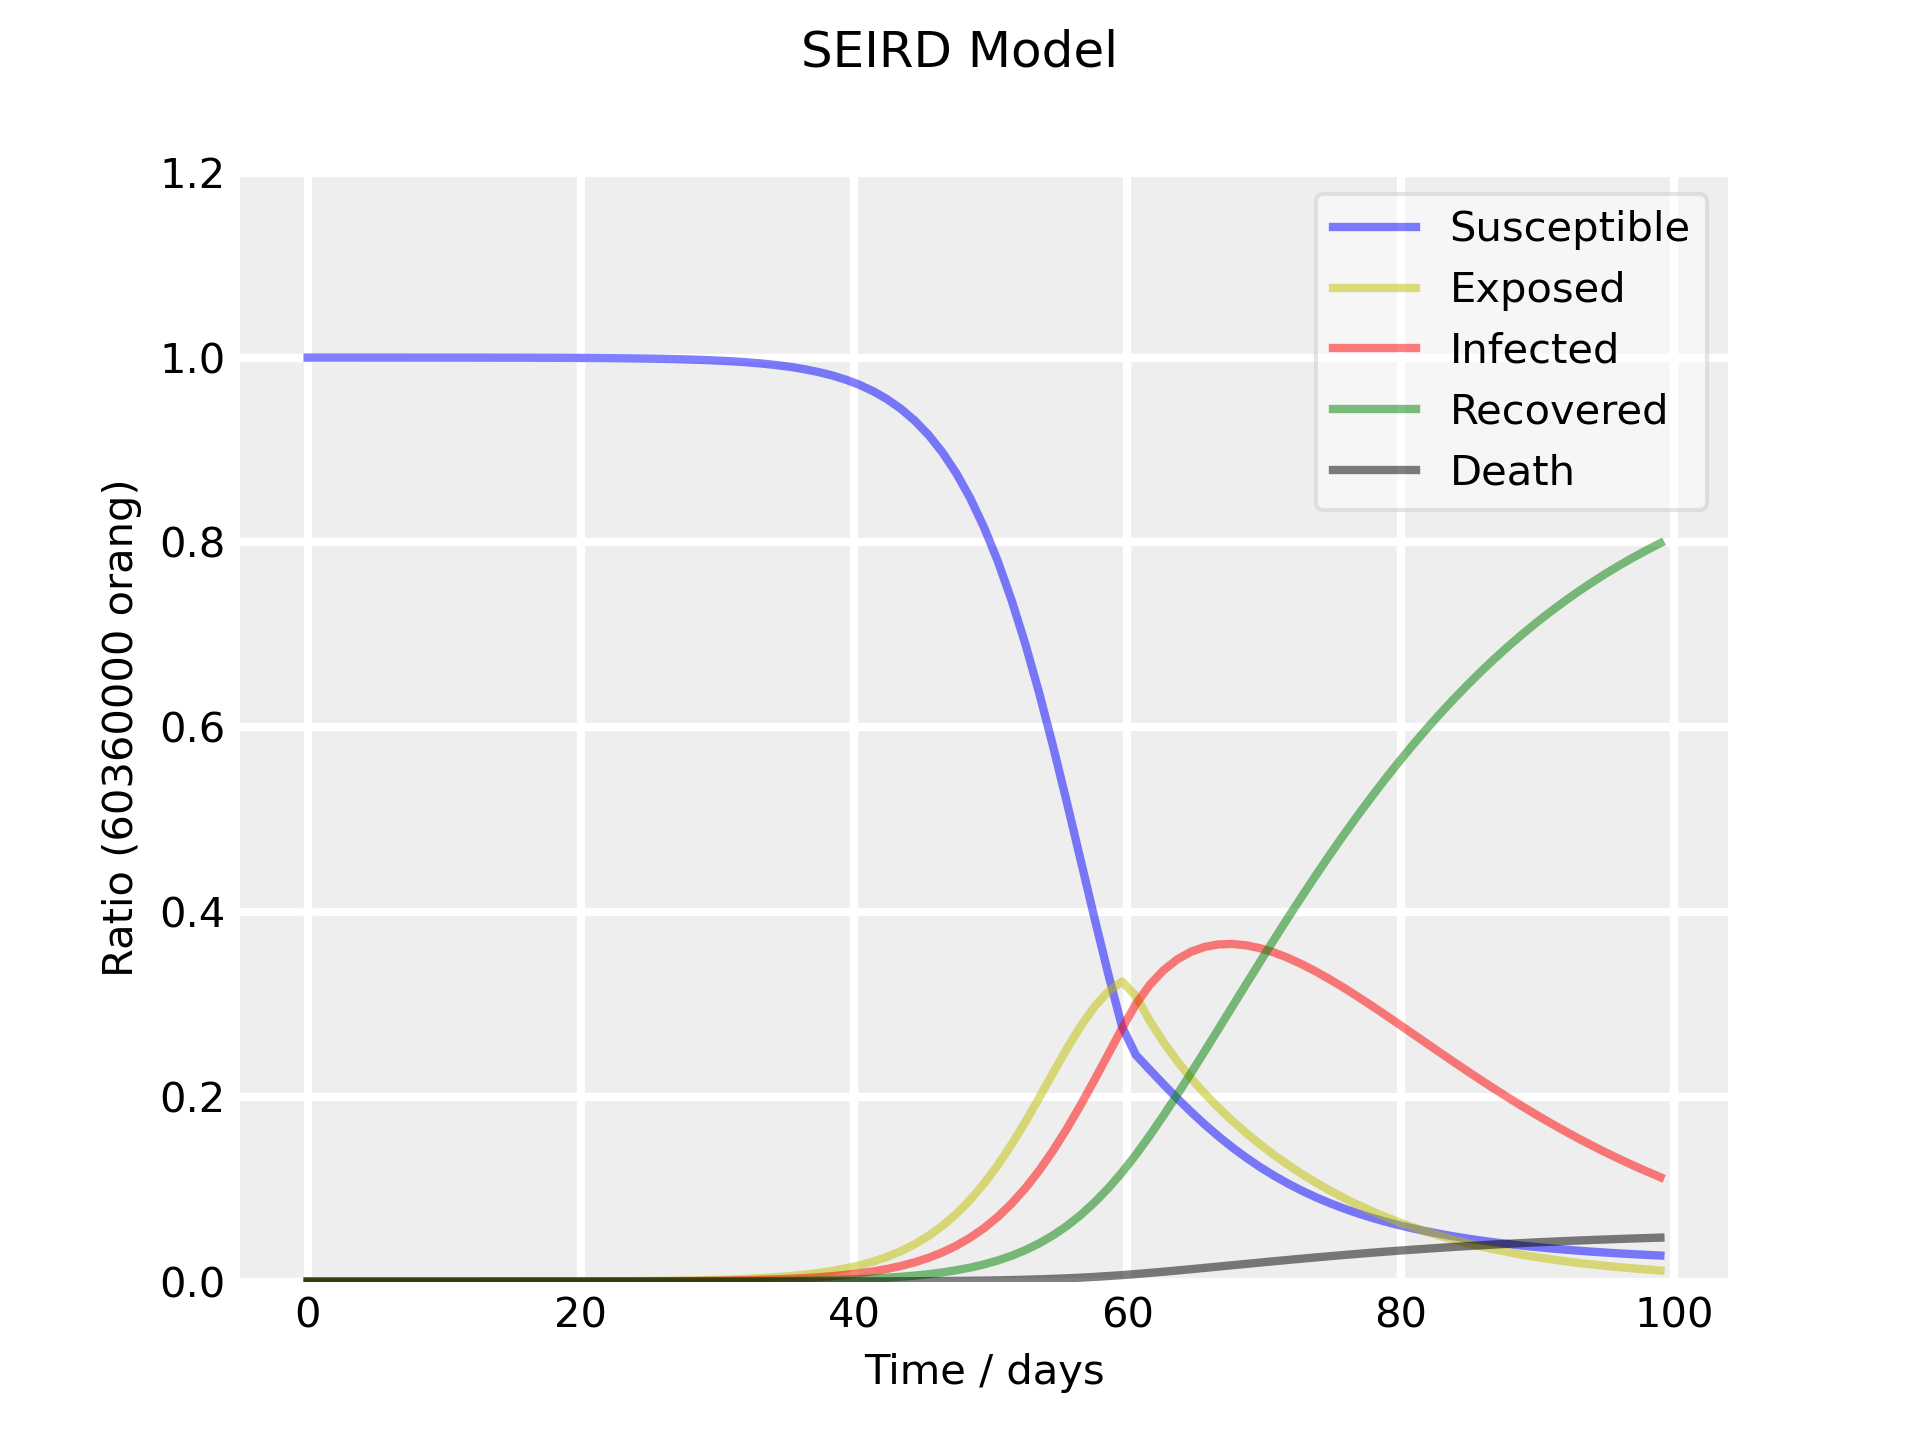
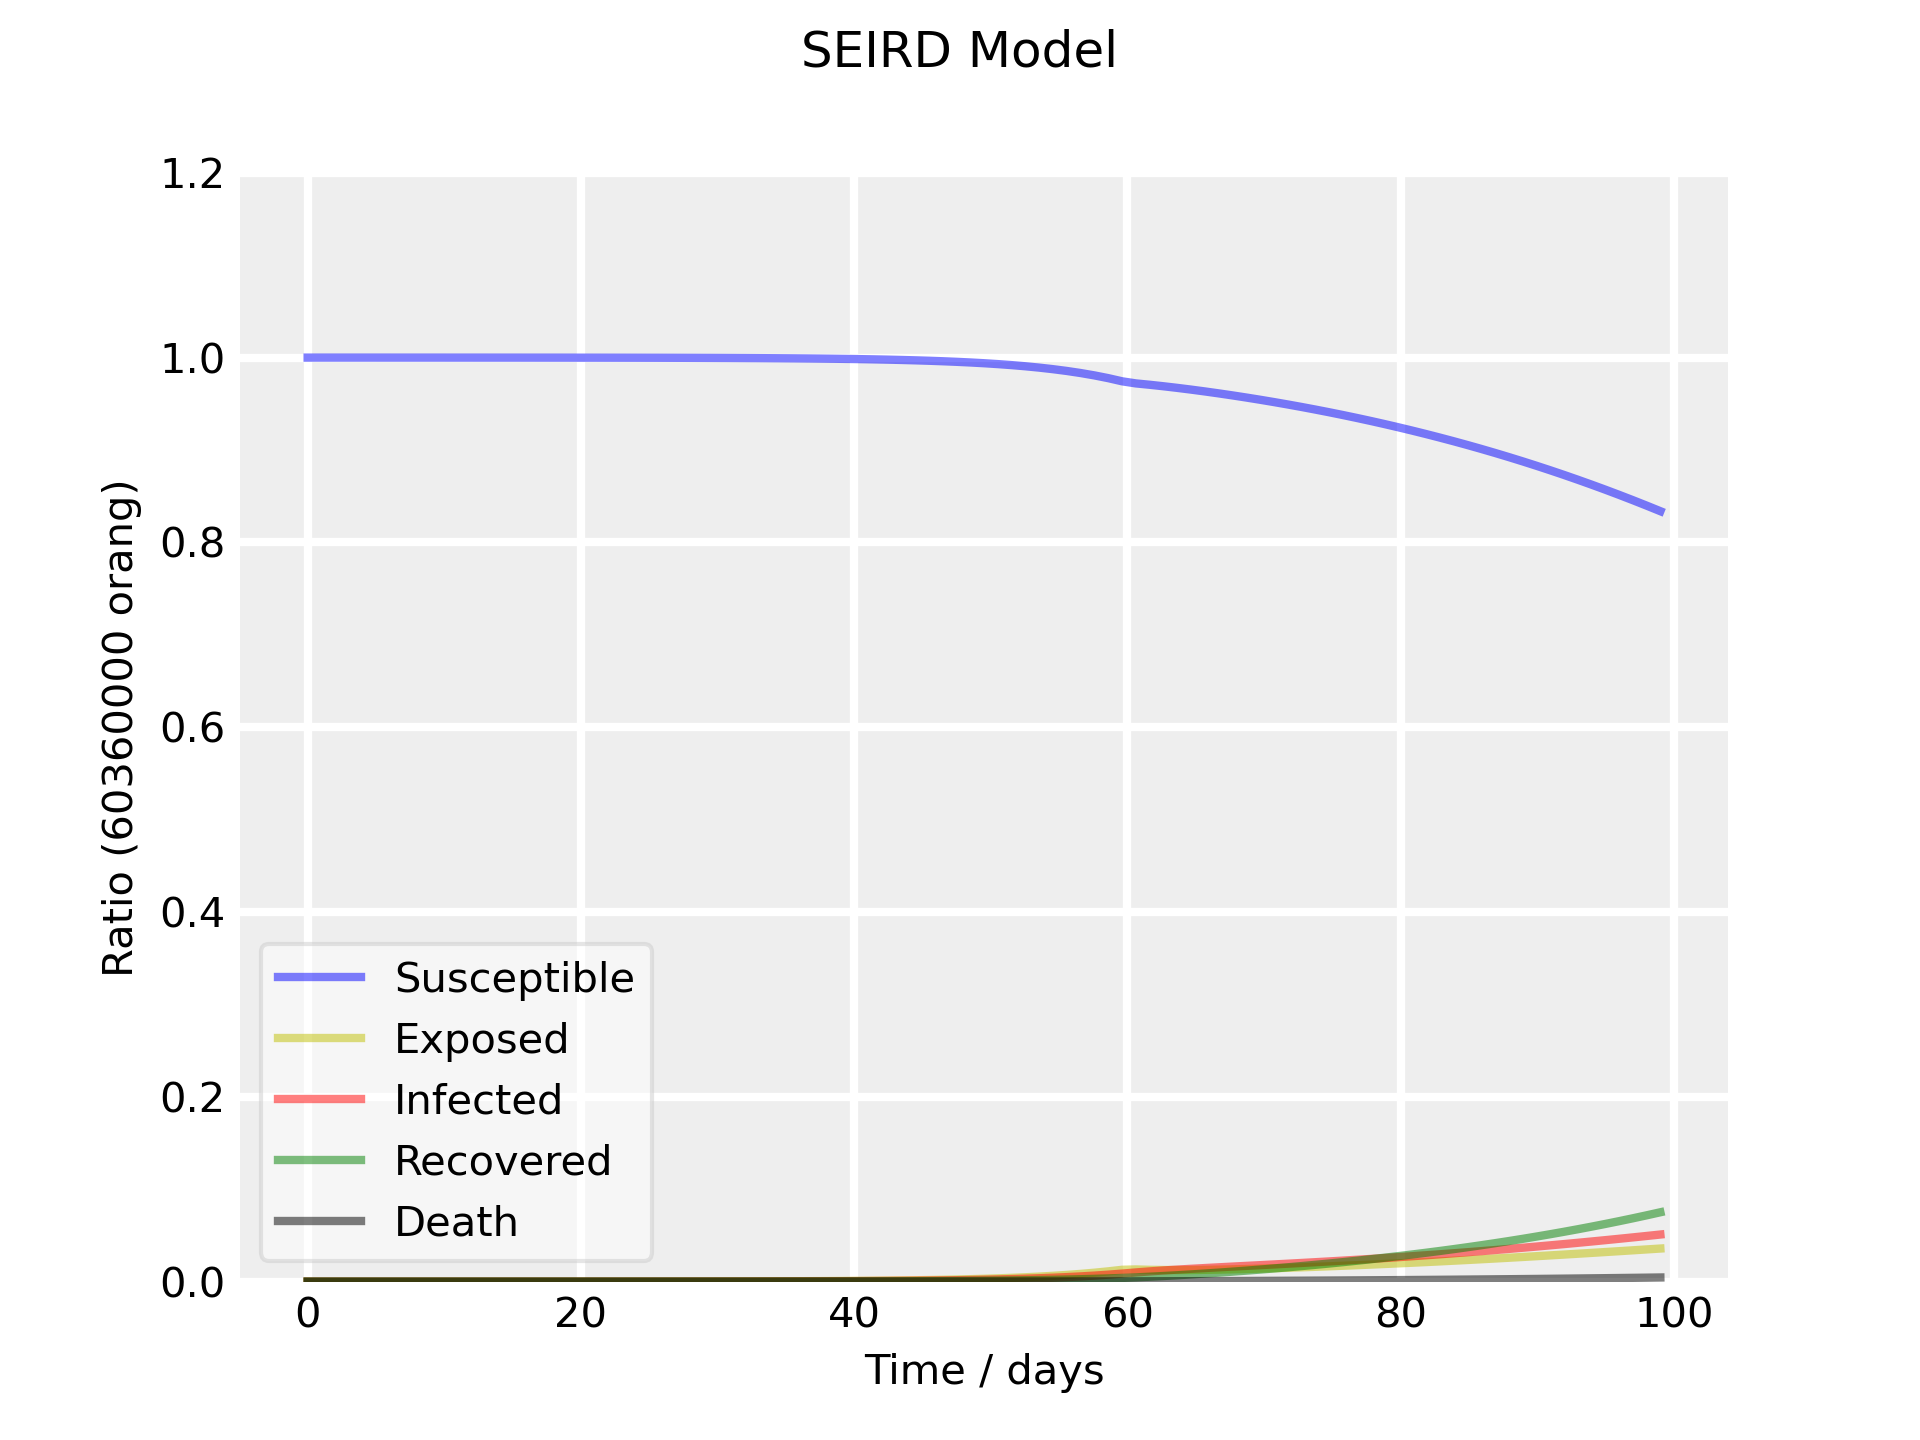
add interactive

diff --git a/runner.py b/runner.py
@@ -5,6 +5,7 @@ import constant
 import pandas as pd
 import matplotlib.pyplot as plt
 import os
+import code
 
 
 def MSE(which='sir', datamodel=None, datareal=None):
@@ -26,7 +27,8 @@ def MSE(which='sir', datamodel=None, datareal=None):
         if column == 'date':
             continue
 
-        diff = datamodel[column] - datareal[column]
+        diff = (datamodel[column] - datareal[column]) / \
+            constant.TOTAL_POPULATION
         square = diff ** 2
         mse = square.sum() / len(datareal[column])
         print("{}[{}]: {}".format(which.upper(), column.lower(), mse))
@@ -181,7 +183,7 @@ if __name__ == '__main__':
     pandemi
     """
     def R(t):
-        return 10 if t < constant.START_LOCKDOWN else 3
+        return 6 if t < constant.START_LOCKDOWN else 2
     """
     Jalankan Simulasi Model yang dipilih
     dan ambil model simulasi nya
@@ -287,3 +289,8 @@ if __name__ == '__main__':
 
     fig.savefig('assets/model-real.png', dpi=300)
     plt.show()
+
+    """
+    Masuk ke dalam mode interactive
+    """
+    code.interact(local=locals())

diff --git a/constant/__init__.py b/constant/__init__.py
@@ -27,7 +27,7 @@ BETA = 0.6
 Nilai probabilitas seseorang akan 
 menjadi recovered (model SIR & SEIRD)
 """
-GAMMA = 0.1
+GAMMA = 0.5
 
 """
 Nilai probabilitas seseorang akan 
